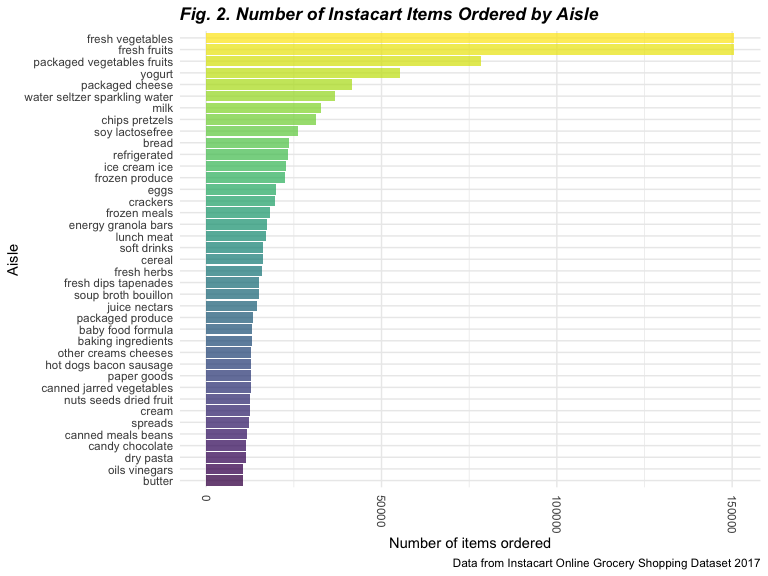
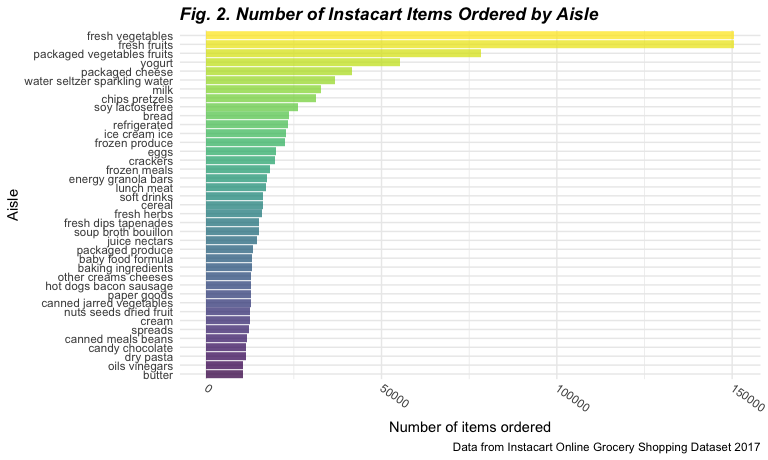
edits to problem 1 and addition to problem 2 (BFRSS data)

diff --git a/p8105_hw3_jys2137.md b/p8105_hw3_jys2137.md
@@ -62,15 +62,13 @@ There are **134 aisles** in total. The aisles most ordered from are
 below, which shows the top 10 aisles that most items are ordered from.
 
 ``` r
-aisle_table =
-  instacart_df %>% 
+instacart_df %>% 
   count(aisle) %>% 
   arrange(desc(n)) %>% 
   head(n = 10) %>% 
   mutate(row_number = 1:n()) %>% 
-  select(row_number, aisle, n)
-
-knitr::kable(aisle_table,
+  select(row_number, aisle, n) %>% 
+  knitr::kable(
              caption = "_**Fig. 1. Top 10 Aisles Most Ordered From**_",
              col.names = c('Rank', 'Aisle', 'N'),
              align = "clc")
@@ -97,8 +95,7 @@ Next, we produce a plot that shows the number of items ordered in each
 aisle. Only aisles with more than 10000 items ordered are included.
 
 ``` r
-aisle_plot =
-  instacart_df %>% 
+instacart_df %>% 
   count(aisle) %>% 
   filter(n > 10000) %>% 
   mutate(aisle = fct_reorder(aisle, n)) %>% 
@@ -106,7 +103,7 @@ aisle_plot =
   geom_bar(stat = "identity", alpha = .75) +
   coord_flip() +
   theme(
-    axis.text.x = element_text(angle = -90, hjust = 0, vjust = .5),
+    axis.text.x = element_text(angle = -35, hjust = 0, vjust = .5),
     plot.title = element_text(face = "bold.italic" ),
     legend.position = "none") +
   labs(
@@ -114,8 +111,6 @@ aisle_plot =
     x = "Aisle",
     y = "Number of items ordered",
     caption = "Data from Instacart Online Grocery Shopping Dataset 2017") 
-
-aisle_plot
 ```
 
 <img src="p8105_hw3_jys2137_files/figure-gfm/aisle_plot-1.png" width="90%" />
@@ -128,8 +123,8 @@ the aisles `baking ingredients`, `dog food care`, and
 was ordered.
 
 ``` r
-pop_item = 
-  instacart %>% 
+pop_item =
+  instacart_df %>% 
   filter(aisle == c("baking ingredients", "dog food care", "packaged vegetables fruits")) %>%
   group_by(aisle) %>% 
   count(product_name) %>%
@@ -138,9 +133,11 @@ pop_item =
   mutate(product_name_count = paste(product_name, "-", "ordered", n, "times")) %>%
   select(-n, -product_name) %>% 
   arrange(rank) %>% 
-  pivot_wider(names_from = aisle, values_from = product_name_count)
+  pivot_wider(
+    names_from = aisle, 
+    values_from = product_name_count)
 
-knitr::kable(pop_item, 
+knitr::kable(pop_item,
              caption = "_**Fig. 3. Top 3 Items Ordered by Aisle**_", 
              format = "simple", 
              col.names = str_to_title(names(pop_item)),
@@ -162,32 +159,36 @@ Here, a table is used to show the **mean hour** of the day at which
 the week. This table has been formatted for human readers (2 x 7 table).
 
 ``` r
-pink_coff_table =
-  instacart %>%
-  filter(product_name %in% c("Pink Lady Apples", "Coffee Ice Cream")) %>%
+instacart_df %>%
   group_by(product_name, order_dow) %>%
+  filter(product_name %in% c("Pink Lady Apples", "Coffee Ice Cream")) %>%
   summarize(mean_hour = mean(order_hour_of_day)) %>% 
-  mutate(order_dow = recode(order_dow, `0` = "Sun", `1` = "Mon", `2` = "Tues", `3` = "Wed", `4` = "Thurs", `5` = "Fri", `6` = "Sat")) %>% 
-  pivot_wider(names_from = "order_dow", values_from = "mean_hour")
-
-knitr::kable(pink_coff_table,
+  mutate(order_dow = recode(order_dow, 
+                            `0` = "Sun", `1` = "Mon", `2` = "Tues", 
+                            `3` = "Wed", `4` = "Thurs", `5` = "Fri", 
+                            `6` = "Sat")) %>% 
+  pivot_wider(
+    names_from = "order_dow", 
+    values_from = "mean_hour") %>%
+  arrange(desc(product_name)) %>% 
+  rename(Product = product_name) %>% 
+  knitr::kable(
              digits = 2,
              caption = "_**Fig. 4. Mean Hour of Day for Pink Lady Appples and Coffee Ice Cream**_")
 ```
 
-| product\_name    |   Sun |   Mon |  Tues |   Wed | Thurs |   Fri |   Sat |
+| Product          |   Sun |   Mon |  Tues |   Wed | Thurs |   Fri |   Sat |
 |:-----------------|------:|------:|------:|------:|------:|------:|------:|
-| Coffee Ice Cream | 13.77 | 14.32 | 15.38 | 15.32 | 15.22 | 12.26 | 13.83 |
 | Pink Lady Apples | 13.44 | 11.36 | 11.70 | 14.25 | 11.55 | 12.78 | 11.94 |
+| Coffee Ice Cream | 13.77 | 14.32 | 15.38 | 15.32 | 15.22 | 12.26 | 13.83 |
 
 ***Fig. 4. Mean Hour of Day for Pink Lady Appples and Coffee Ice
 Cream***
 
 From this table, it can be seen that for most days, **pink lady apples**
-are purchased *earlier in the day* compared to **coffee ice cream**
+are ordered *earlier in the day* compared to **coffee ice cream**
 purchases. However, Friday seems to be the exception when coffee ice
-cream was purchased slightly earlier than pink lady apples at an average
-of 12.26.
+cream was ordered slightly earlier than pink lady apples.
 
 ## Problem 2
 
@@ -209,41 +210,146 @@ First, we read in the `BRFSS` dataset and conduct some data cleaning by:
 
 ``` r
 data("brfss_smart2010")
+
+brfss_df =
+  brfss_smart2010 %>% 
+  janitor::clean_names() %>% 
+  filter(topic == "Overall Health") %>% 
+  mutate(response = as_factor(response)) %>% 
+  arrange(desc(response)) %>% 
+  rename(state = locationabbr, location = locationdesc, resp_id = respid)
 ```
 
 ### 2.2. Exploration of the `BRFSS` dataset
 
-Using this dataset, we do or answer the following (commenting on the
-results of each):
+Using the `BRFSS` dataset, we will create:
 
--   In 2002, which states were observed at 7 or more locations? What
-    about in 2010?
--   Construct a dataset that is limited to Excellent responses, and
-    contains, year, state, and a variable that averages the data\_value
-    across locations within a state. Make a “spaghetti” plot of this
-    average value over time within a state (that is, make a plot showing
-    a line for each state across years – the geom\_line geometry and
-    group aesthetic will help).
--   Make a two-panel plot showing, for the years 2006, and 2010,
-    distribution of data\_value for responses (“Poor” to “Excellent”)
-    among locations in NY State.
+1.  A table of states observed at 7 or more locations in 2002 and 2010
+2.  A spaghetti plot of the average data value over time by state
+3.  A two-panel plot showing the distribution of data value in NY for
+    2006 and 2010
 
 #### 2.2.1. States observed at 7 or more locations in 2002 and 2010
 
-In 2002, which states were observed at 7 or more locations? What about
-in 2010?
+``` r
+brfss_states =
+  brfss_df %>% 
+  group_by(year, state) %>% 
+  summarize(state_count = n()) %>% 
+  filter(year == 2002 | year == 2010, state_count >= 7) %>% 
+  pivot_wider(names_from = year, values_from = state_count) %>% 
+  arrange(state)
 
-#### 2.2.2. Most popular items
+knitr::kable(brfss_states,
+             format = "simple",
+             col.names = c("State", "2002", "2010"),
+             caption = "_**Fig. 5. States observed at 7 or more locations in 2002 and 2010**_")
+```
 
-Construct a dataset that is limited to Excellent responses, and
-contains, year, state, and a variable that averages the data\_value
-across locations within a state. Make a “spaghetti” plot of this average
-value over time within a state (that is, make a plot showing a line for
-each state across years – the geom\_line geometry and group aesthetic
-will help).
+| State | 2002 | 2010 |
+|:------|-----:|-----:|
+| AL    |   NA |   15 |
+| AR    |   NA |   15 |
+| AZ    |   10 |   15 |
+| CA    |   NA |   60 |
+| CO    |   20 |   35 |
+| CT    |   35 |   25 |
+| DE    |   15 |   15 |
+| FL    |   35 |  205 |
+| GA    |   15 |   20 |
+| HI    |   20 |   20 |
+| IA    |   NA |   10 |
+| ID    |   10 |   30 |
+| IL    |   15 |   10 |
+| IN    |   10 |   15 |
+| KS    |   15 |   20 |
+| LA    |   15 |   25 |
+| MA    |   40 |   45 |
+| MD    |   30 |   60 |
+| ME    |   10 |   30 |
+| MI    |   20 |   20 |
+| MN    |   20 |   25 |
+| MO    |   10 |   15 |
+| MS    |   NA |   10 |
+| MT    |   NA |   15 |
+| NC    |   35 |   60 |
+| ND    |   NA |   15 |
+| NE    |   15 |   50 |
+| NH    |   25 |   25 |
+| NJ    |   40 |   95 |
+| NM    |   NA |   30 |
+| NV    |   10 |   10 |
+| NY    |   25 |   45 |
+| OH    |   20 |   40 |
+| OK    |   15 |   15 |
+| OR    |   15 |   20 |
+| PA    |   50 |   35 |
+| RI    |   20 |   25 |
+| SC    |   15 |   35 |
+| SD    |   10 |   10 |
+| TN    |   10 |   25 |
+| TX    |   10 |   80 |
+| UT    |   25 |   30 |
+| VT    |   15 |   30 |
+| WA    |   20 |   50 |
+| WY    |   NA |   10 |
+
+***Fig. 5. States observed at 7 or more locations in 2002 and 2010***
+
+In *2002*, there were **36 states** that were observed at 7 or more
+locations while in *2010*, there were **45 states** with 7 or more
+observation locations.
+
+#### 2.2.2. Spaghetti plot
+
+The following code chunk establishes a dataset that is:
+
+-   limited to Excellent responses; and
+-   contains `year`, `state`, and `mean_data_value` (a variable that
+    averages the `data_value` across locations within a state)
+
+This also creates a “spaghetti” plot of this average value over time
+within a state (showing a line for each state across years).
+
+``` r
+brfss_df %>% 
+  filter(response == "Excellent") %>% 
+  group_by(state, year) %>% 
+  summarize(mean_data_value = mean(data_value)) %>% 
+  ggplot(aes(x = year, y = mean_data_value, group = state, color = state)) +
+  geom_line() +
+  scale_color_viridis_d() +
+  labs(x = "Year", y = "Mean Data Value", title = "Fig. 6. Mean Data Value by State") +
+  theme(
+    plot.title = element_text(face = "bold"),
+    legend.position = "right")
+```
+
+    ## `summarise()` has grouped output by 'state'. You can override using the `.groups` argument.
+
+<img src="p8105_hw3_jys2137_files/figure-gfm/brfss_spaghetti-1.png" width="90%" />
 
 #### 2.2.3. Distribution of `data_value` in NY
 
-Make a two-panel plot showing, for the years 2006, and 2010,
-distribution of data\_value for responses (“Poor” to “Excellent”) among
+Next, we develop a two-panel plot showing, for the years 2006 and 2010,
+distribution of `data_value` for responses (“Poor” to “Excellent”) among
 locations in NY State.
+
+``` r
+brfss_df %>% 
+  filter(year == "2006" | year == "2010", state == "NY") %>% 
+  ggplot(aes(x = response, y = data_value, color = year)) +
+  geom_point() +
+  facet_grid(~year) +
+  labs(
+    x = "Response", 
+    y = "Data Value", 
+    title = "Fig. 7. Distributions of Data Value in NY") +
+  theme_bw() +
+  theme(
+    legend.position = "none",
+    axis.text.x = element_text(angle = -35, hjust = 0, vjust = .5),
+    plot.title = element_text(face = "bold.italic"))
+```
+
+<img src="p8105_hw3_jys2137_files/figure-gfm/BRFSS_NY_plot-1.png" width="90%" />
